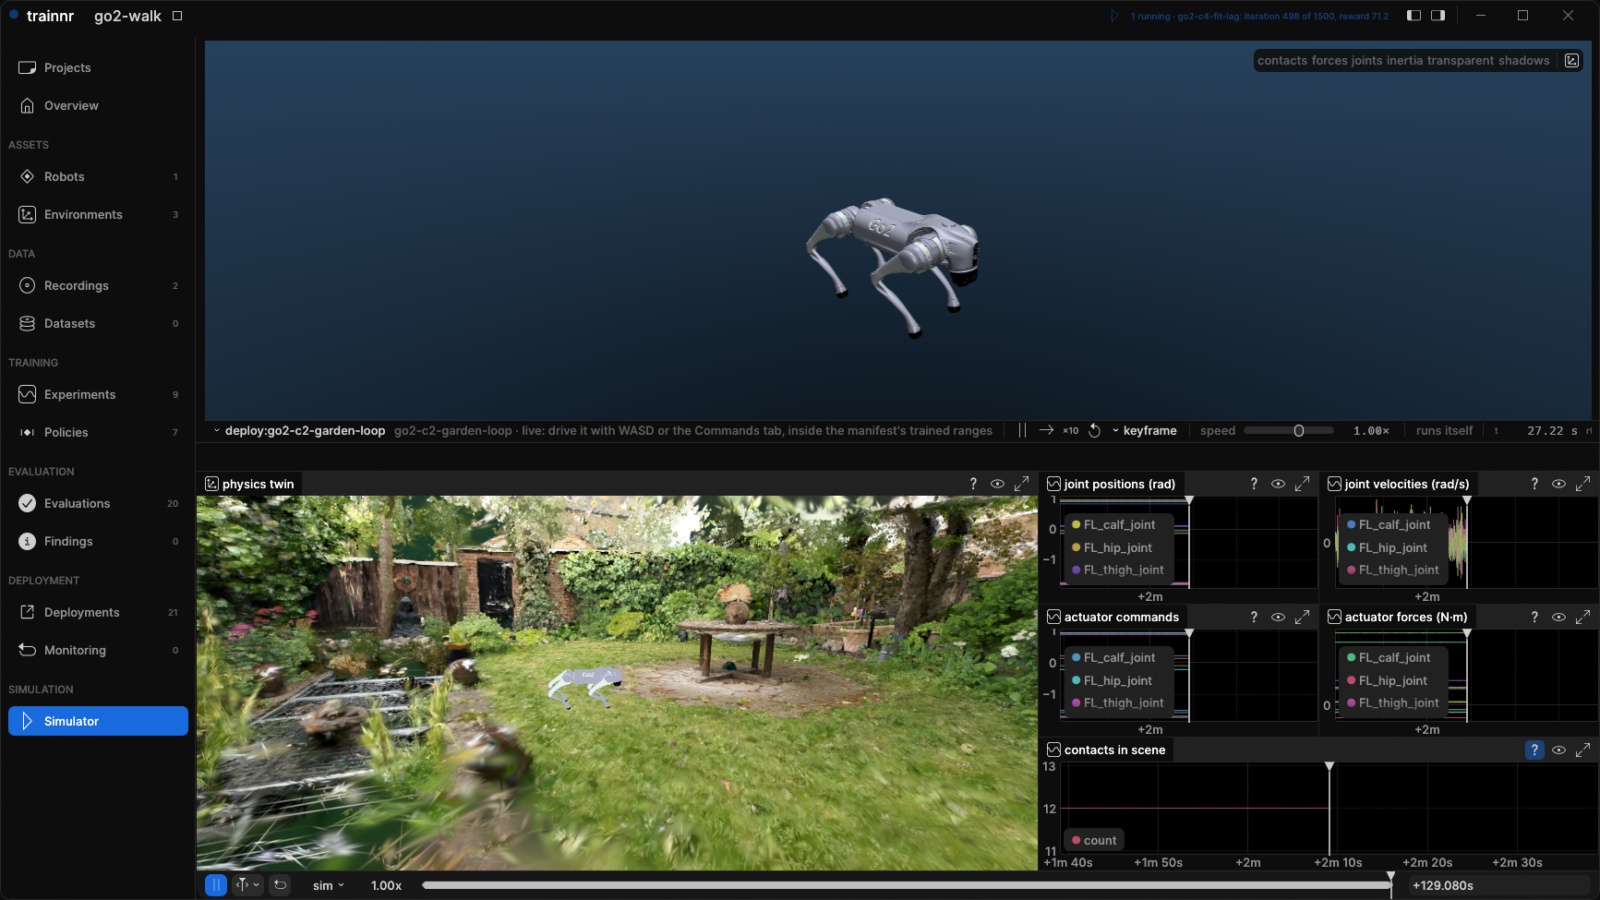
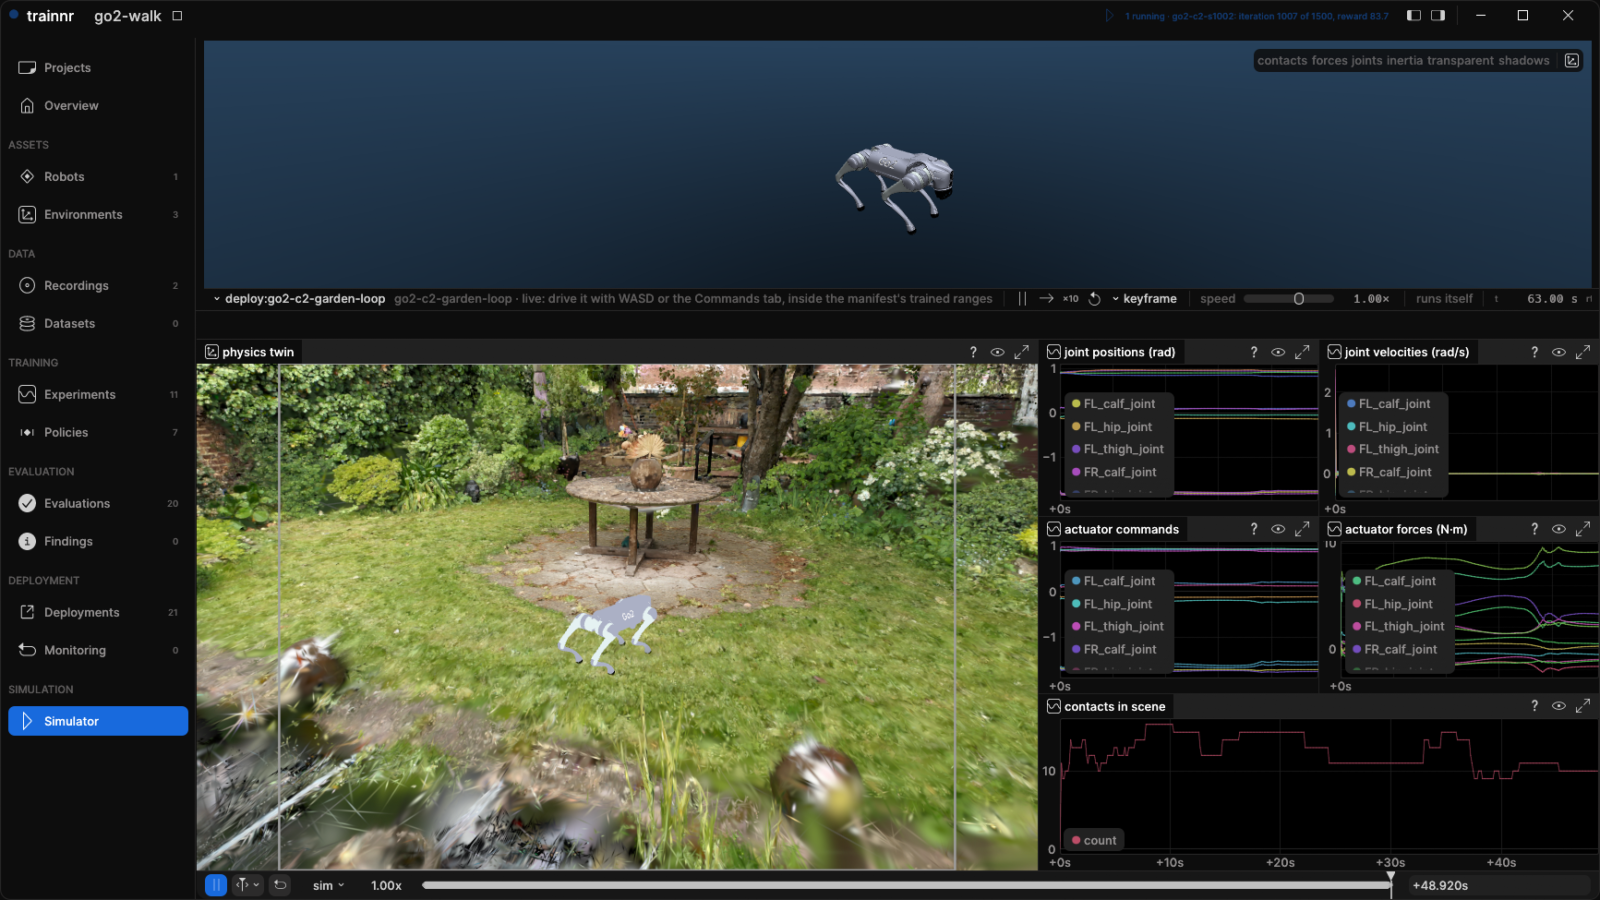
The twin follows the robot through the splat with a chase camera; a focus door brings a recording to the front; twins no longer stack; the presenter waits 120 s and says what a timeout means
Rerun takes over the pose of a tracked camera (a tracked plain entity put
the eye inside the robot's base), so the twin logs a chase camera over
the base and the eye tracks it. Command::Focus / focus_studio_recording
activates an app by the id its tool used. The Simulate handler closes
the previous twin's app before a new viewport, with TWIN_APP_PREFIX
named once per side. FLUSH_S 10 -> 120 s; a real timeout is worded.
Seen on screen: the Go2 crossing the lawn, the twin's clock live.

Claude-Session: https://claude.ai/code/session_01MNvYwm2XvRvea4wm9UZrTN

diff --git a/tools/studio-render-stream.py b/tools/studio-render-stream.py
@@ -250,9 +250,9 @@ RTF_WINDOW_S = 1.0  # the real-time factor the status reports, over this window
 # The last slice of each physics tick is spun, not slept, for accuracy.
 PACE_SPIN_S = 0.0015
 SPEED_MIN, SPEED_MAX = 0.01, 100.0  # simulate's Speed slider, roughly
-# Where the twin's eye starts, from the robot's base, under a captured
-# scene: behind and above, close enough that the robot is the picture.
-TWIN_EYE_OFFSET_M = np.array([2.5, -2.5, 1.4])
+# The twin's application id before the scene's name; the shell closes the
+# previous twin under it before a new viewport starts (viewport.rs mirrors it).
+TWIN_APP_PREFIX = "robotiq-sim-"
 
 
 class PhysicsNarrator:
@@ -267,14 +267,16 @@ class PhysicsNarrator:
         import rerun as rr  # noqa: PLC0415 - viz extra
         import rerun.blueprint as rrb  # noqa: PLC0415
         from rq_pipeline.viz import (  # noqa: PLC0415
+            CHASE_PATH,
             VISUAL_ONLY_SKIP_GROUPS,
             RigMirror,
+            chase_camera,
             leave_cleanly_on_term,
             scene_ground,
         )
 
         self.rr = rr
-        rr.init(f"robotiq-sim-{task_name}", spawn=False)
+        rr.init(f"{TWIN_APP_PREFIX}{task_name}", spawn=False)
         rr.connect_grpc()  # default 127.0.0.1:9876 — the Studio itself
         leave_cleanly_on_term(rr)
         # A staged deployment's captured scene: the splat and its proxy go
@@ -334,53 +336,39 @@ class PhysicsNarrator:
             if (model.actuator(a).name or "").startswith(self._narrated)
         ]
         self._scene_shown = scene_dir is not None
+        # under a scene the eye tracks a chase camera over the robot's base
+        self._chase_body = self._free_body(model) if self._scene_shown else None
+        if self._chase_body is not None:
+            rr.log(CHASE_PATH, chase_camera(rr), static=True)
         rr.send_blueprint(self._blueprint(rrb, model))
 
-    def _tracked(self, model: "mujoco.MjModel") -> "tuple[str, np.ndarray] | None":
-        """The robot's base as the twin logs it: the entity of the first
-        mesh on the free joint's body, and where that body starts. None
-        for a scene with no free body or no mesh on it."""
-        from rq_pipeline.viz import RIG_PATH  # noqa: PLC0415
-
+    @staticmethod
+    def _free_body(model: "mujoco.MjModel") -> "int | None":
+        """The robot's base: the free joint's body; None without one."""
         free = [
             j
             for j in range(model.njnt)
             if model.jnt_type[j] == mujoco.mjtJoint.mjJNT_FREE
         ]
-        if not free:
-            return None
-        body = int(model.jnt_bodyid[free[0]])
-        for g, name, *_ in self.mirror.meshes:
-            if int(model.geom_bodyid[g]) == body:
-                data = mujoco.MjData(model)
-                if model.nkey:  # a deployment starts from its keyframe, not qpos0
-                    mujoco.mj_resetDataKeyframe(model, data, 0)
-                mujoco.mj_forward(model, data)
-                return f"{RIG_PATH}/{name}", data.xpos[body].copy()
-        return None
+        return int(model.jnt_bodyid[free[0]]) if free else None
 
     def _twin_view(self, rrb: "object", model: "mujoco.MjModel") -> "object":
         """The 3D twin. Under a captured scene the view's bounds are the
         scene's (17 m of garden), which frames a 0.4 m robot as a speck: the
-        eye then orbits the robot's base and follows it, and the collision
-        proxy is left out of the view's contents (Rerun's `overrides` are
-        visualizers; a visibility override did not take, 2026-09-26) — the
-        entity is in the recording, one query edit away, never a blue skin
-        over the splat by default."""
-        from rq_pipeline.viz import SCENE_GROUND_PATH  # noqa: PLC0415
+        eye then tracks the chase camera the twin logs over the robot
+        (`viz.chase_pose`; a tracked plain entity put the eye inside the
+        base), and the collision proxy is left out of the view's contents
+        (Rerun's `overrides` are visualizers; a visibility override did not
+        take, 2026-09-26) — the entity is in the recording, one query edit
+        away, never a blue skin over the splat by default."""
+        from rq_pipeline.viz import CHASE_PATH, SCENE_GROUND_PATH  # noqa: PLC0415
 
+        del model
         if not self._scene_shown:
             return rrb.Spatial3DView(origin="world", name="physics twin")
-        tracked = self._tracked(model)
         eye = None
-        if tracked is not None:
-            entity, base = tracked
-            eye = rrb.EyeControls3D(
-                kind=rrb.Eye3DKind.Orbital,
-                tracking_entity=entity,
-                look_target=base,
-                position=base + TWIN_EYE_OFFSET_M,
-            )
+        if self._chase_body is not None:
+            eye = rrb.EyeControls3D(tracking_entity=CHASE_PATH)
         return rrb.Spatial3DView(
             origin="world",
             name="physics twin",
@@ -432,6 +420,11 @@ class PhysicsNarrator:
         rr = self.rr
         rr.set_time(SIM_TIMELINE, duration=sim_time)
         self.mirror.log(data)
+        if self._chase_body is not None:
+            from rq_pipeline.viz import CHASE_PATH, chase_pose  # noqa: PLC0415
+
+            position, matrix = chase_pose(data.xpos[self._chase_body])
+            rr.log(CHASE_PATH, rr.Transform3D(translation=position, mat3x3=matrix))
         now_series = sim_time - self._last_series >= 1.0 / NARRATE_HZ
         if not now_series:
             if data.ncon:

diff --git a/crates/studio-shell/src/main.rs b/crates/studio-shell/src/main.rs
@@ -433,6 +433,19 @@ impl StudioShell {
 
     /// No scene: the viewport idle and the page back to its rails — the
     /// one way a scene ends, from the button and from the door alike.
+    /// Close the previous viewport twin's recordings before a new one
+    /// streams under the same application id: restarted twice, the viewer
+    /// held two twins of one scene and showed the older (2026-09-26).
+    fn close_twin(&self, scene: &str) {
+        use re_viewer::external::re_log_types::ApplicationId;
+        use re_viewer::external::re_viewer_context::{SystemCommand, SystemCommandSender as _};
+        if let Ok(app) = ApplicationId::try_new(format!("{}{scene}", viewport::TWIN_APP_PREFIX)) {
+            self.rerun_app
+                .command_sender
+                .send_system(SystemCommand::CloseApp(app));
+        }
+    }
+
     fn stop_scene(&mut self) {
         self.viewport = ViewportFeed::idle();
         self.viewport_full = false;
@@ -619,6 +632,20 @@ impl StudioShell {
                 self.shell.show(&artifact);
                 Ok(())
             }
+            Command::Focus { recording } => {
+                use re_viewer::external::re_log_types::ApplicationId;
+                use re_viewer::external::re_viewer_context::{
+                    SystemCommand, SystemCommandSender as _,
+                };
+                // The same migration the SDK applied to the tool's id, so the
+                // raw name resolves to the entry name the viewer holds.
+                let app = ApplicationId::try_new(recording.clone())
+                    .map_err(|e| format!("recording {recording:?}: {e}"))?;
+                self.rerun_app
+                    .command_sender
+                    .send_system(SystemCommand::ActivateApp(app));
+                Ok(())
+            }
             Command::Compare { a, b } => {
                 for stamp in [&a, &b] {
                     if self.shell.model.artifact(stamp).is_none() {
@@ -769,6 +796,7 @@ impl StudioShell {
                                 viewport::DEPLOY_PREFIX
                             ));
                         }
+                        self.close_twin(&name);
                         self.viewport =
                             ViewportFeed::spawn(ui.ctx(), &name, &self.shell.model.project_root);
                         self.shell.section = Section::Live;

diff --git a/pipeline/rq_pipeline/project/present.py b/pipeline/rq_pipeline/project/present.py
@@ -64,7 +64,12 @@ if TYPE_CHECKING:
 
 INTENT_FILE = "present.json"
 POLL_S = 0.25
-FLUSH_S = 10.0
+# How long a show waits for the viewer to confirm everything arrived. The
+# viewer is shared with live streams (a training's curves, the viewport's
+# twin at 20 Hz), and behind them a 10 s wait ran out while the show itself
+# had landed: the Studio then said "could not show" over a picture that was
+# there (2026-09-26). The presenter is its own process, so it can wait.
+FLUSH_S = 120.0
 # The channel components drawn per recording: all of them up to this many,
 # so a 14-joint arm plots as fourteen lines and not one unreadable braid.
 MAX_TRACES = 16
@@ -123,7 +128,7 @@ def present(
         shown = presenter(project, artifact, recording)
         shown["viewer_files"] = [str(path) for path in replayed]
         recording.send_blueprint(rrb.Blueprint(shown["layout"]))
-        recording.flush(timeout_sec=FLUSH_S)
+        _flush(recording, stamp)
     finally:
         recording.disconnect()
     return {
@@ -169,7 +174,7 @@ def compare(
         recording.send_blueprint(
             rrb.Blueprint(rrb.Horizontal(*(s["layout"] for s in shown)))
         )
-        recording.flush(timeout_sec=FLUSH_S)
+        _flush(recording, f"{a} vs {b}")
     finally:
         recording.disconnect()
     return {
@@ -1130,6 +1135,20 @@ def _gap_line(g: Any) -> str:
         f"beyond {g.tolerance_m * 100:.0f} cm of any collider · "
         f"{g.hidden_fraction * 100:.1f} % of the proxy unseen"
     )
+
+
+def _flush(recording: Any, what: str) -> None:
+    """Wait for the viewer to take the whole show; past `FLUSH_S` the
+    refusal says what happened - the viewer is busy, what arrived is
+    shown, the rest may be missing - not a bare SDK line."""
+    try:
+        recording.flush(timeout_sec=FLUSH_S)
+    except Exception as why:
+        raise RuntimeError(
+            f"the viewer did not confirm the whole of {what} within {FLUSH_S:g} s "
+            f"(live streams share it; what arrived is shown, the rest may be "
+            f"missing): {why}"
+        ) from why
 
 
 def _obj_mesh(path: Path) -> tuple[Any, Any] | None:

diff --git a/pipeline/rq_pipeline/mcp_server.py b/pipeline/rq_pipeline/mcp_server.py
@@ -1588,6 +1588,27 @@ def show_in_studio(artifact: str) -> dict[str, Any]:
     return {**answer, **wait_presented(project, artifact, since=since)}
 
 
+def focus_studio_recording(recording: str) -> dict[str, Any]:
+    """Bring a recording to the front of the Studio's viewer by the
+    application id the tool that streams it used (the Sources list's
+    name): the viewport's twin is `robotiq-sim-<scene>`, a training run
+    its stamp, a gate `rq-gate-<runtime>-<deployment>`. A human's click on
+    a card leaves that card in front, and a twin started afterwards stays
+    a row in Sources; this is how an agent turns the viewer back. Returns
+    the acknowledgement and what the viewer then reports as its live
+    recording, so a name that is not there is seen, not assumed."""
+    from rq_pipeline.project import current_project  # noqa: PLC0415
+    from rq_pipeline.project.control import SETTLE_S, command, state  # noqa: PLC0415
+
+    project = current_project()
+    answer = command(project, "focus", recording=recording)
+    if answer.get("status") != "done":
+        return answer
+    time.sleep(SETTLE_S)
+    live = state(project).get("live") or {}
+    return {**answer, "live_recording": live.get("recording")}
+
+
 def compare_in_studio(a: str, b: str) -> dict[str, Any]:
     """Two artifacts side by side in the viewer, `a` left and `b` right —
     two robots, two recordings, an experiment beside its evaluation."""
@@ -2583,6 +2604,10 @@ def build_server() -> Any:  # noqa: PLR0915
     server.tool(
         description="Two artifacts side by side in the viewer, a left and b right."
     )(compare_in_studio)
+    server.tool(
+        description="Bring a recording to the front of the viewer by the application "
+        "id its tool used (the Sources name): the viewport twin, a run, a gate."
+    )(focus_studio_recording)
     server.tool(
         description="Drive the viewer timeline: cursor (seconds or sequence), "
         "play/pause, speed, time selection, follow, step. Refused if nothing streams."

diff --git a/pipeline/rq_pipeline/viz.py b/pipeline/rq_pipeline/viz.py
@@ -436,3 +436,41 @@ def scene_ground(
             )
             faces = len(triangles)
     return {"gaussians": drawn.count, "of": splats.count, "proxy_faces": faces}
+
+
+# A chase camera over a mirrored robot: an entity the viewer's eye can
+# track (Rerun takes over a tracked CAMERA's pose; a tracked plain entity
+# puts the eye on the entity itself - the view from inside the robot's
+# base, 2026-09-26). Behind, beside and above the robot, looking at it.
+CHASE_PATH = f"{RIG_PATH}/chase"
+CHASE_OFFSET_M = (-2.2, -2.2, 1.3)  # from the robot's base, world axes
+CHASE_WIDTH, CHASE_HEIGHT, CHASE_FOCAL = 640, 480, 500.0
+
+
+def chase_pose(
+    target: Any, offset: Any = CHASE_OFFSET_M, up: Any = (0.0, 0.0, 1.0)
+) -> Any:
+    """Where a chase camera sits (`target + offset`) and its rotation as a
+    3x3 in Rerun's RDF camera frame (x right, y down, z forward), forward
+    along the line to `target`. Returns (position, matrix)."""
+    import numpy as np  # noqa: PLC0415
+
+    target = np.asarray(target, dtype=np.float64)
+    position = target + np.asarray(offset, dtype=np.float64)
+    forward = target - position
+    forward /= np.linalg.norm(forward)
+    right = np.cross(forward, np.asarray(up, dtype=np.float64))
+    right /= np.linalg.norm(right)
+    down = np.cross(forward, right)
+    return position, np.stack([right, down, forward], axis=1)
+
+
+def chase_camera(rr: Any) -> Any:
+    """The chase camera's intrinsics, logged once, static."""
+    return rr.Pinhole(
+        focal_length=CHASE_FOCAL,
+        width=CHASE_WIDTH,
+        height=CHASE_HEIGHT,
+        camera_xyz=rr.ViewCoordinates.RDF,
+        image_plane_distance=0.15,
+    )

diff --git a/crates/studio-shell/src/control.rs b/crates/studio-shell/src/control.rs
@@ -153,6 +153,15 @@ pub enum Command {
         #[serde(default)]
         width: Option<u32>,
     },
+    /// Bring a recording to the front of the viewer by its application
+    /// id as the tool that streams it named it (the Sources list's name;
+    /// Rerun migrates it to an entry name the same way on both sides).
+    /// A human's click on a card leaves that card's recording in front,
+    /// and a live twin started after it stayed a row in Sources
+    /// (2026-09-26).
+    Focus {
+        recording: String,
+    },
     Quit,
 }
 
@@ -169,6 +178,7 @@ impl Command {
                 | Command::Panels { .. }
                 | Command::Simulate { .. }
                 | Command::Simulator { .. }
+                | Command::Focus { .. }
         )
     }
 }
@@ -710,6 +720,9 @@ mod tests {
             parse_command(r#"{"verb":"quit"}"#),
             Ok(Command::Quit)
         ));
+        let focus = parse_command(r#"{"verb":"focus","recording":"robotiq-sim-x"}"#)
+            .expect("parses");
+        assert!(matches!(focus, Command::Focus { recording } if recording == "robotiq-sim-x"));
         let err = parse_command(r#"{"verb":"dance"}"#).expect_err("refused");
         assert!(err.starts_with("not a command"), "{err}");
     }

diff --git a/pipeline/tests/test_scene_ground.py b/pipeline/tests/test_scene_ground.py
@@ -111,6 +111,24 @@ class TheSceneGround(unittest.TestCase):
         self.assertEqual(drawn["gaussians"], 3)
 
 
+@unittest.skipUnless(NUMPY, "needs numpy")
+class TheChaseCamera(unittest.TestCase):
+    def test_it_sits_at_the_offset_and_looks_at_the_target(self) -> None:
+        import numpy as np  # noqa: PLC0415
+
+        from rq_pipeline.viz import CHASE_OFFSET_M, chase_pose  # noqa: PLC0415
+
+        target = np.array([1.0, -2.0, 0.4])
+        position, matrix = chase_pose(target)
+        np.testing.assert_allclose(position, target + np.array(CHASE_OFFSET_M))
+        # RDF: x right, y down, z forward - orthonormal, forward at the target
+        np.testing.assert_allclose(matrix.T @ matrix, np.eye(3), atol=1e-12)
+        forward = (target - position) / np.linalg.norm(target - position)
+        np.testing.assert_allclose(matrix[:, 2], forward, atol=1e-12)
+        self.assertLess(matrix[2, 1], 0.0)  # its "down" points down in the world
+        self.assertAlmostEqual(matrix[2, 0], 0.0)  # its "right" is level
+
+
 def _tool():
     if str(TOOLS) not in sys.path:  # the tools import their `_lab` neighbour
         sys.path.insert(0, str(TOOLS))

diff --git a/pipeline/tests/test_studio_mirrors.py b/pipeline/tests/test_studio_mirrors.py
@@ -54,6 +54,13 @@ class RenderSideCap(unittest.TestCase):
 
 
 class WireTags(unittest.TestCase):
+    def test_the_twin_app_prefix_agrees(self) -> None:
+        """The shell closes the previous twin by this prefix before a new
+        viewport starts; the tool streams under it (2026-09-26)."""
+        py = constant(RENDER_STREAM, r'^TWIN_APP_PREFIX = "([^"]+)"$')
+        rs = constant(VIEWPORT_RS, r'^pub const TWIN_APP_PREFIX: &str = "([^"]+)";$')
+        self.assertEqual(py, rs)
+
     def test_the_pan_tag_and_its_payload_agree(self) -> None:
         # The pan message (WASD/QE, 2026-09-12): the tag number and the
         # three f32 seconds on both sides of the pipe.

diff --git a/crates/studio-shell/src/viewport.rs b/crates/studio-shell/src/viewport.rs
@@ -429,6 +429,10 @@ pub const WALK_TASK: &str = "walk";
 /// `tests/test_studio_mirrors.py`). Run by the render stream, in the
 /// pipeline's venv, inside the open project.
 pub const DEPLOY_PREFIX: &str = "deploy:";
+/// The application id the viewport's physics twin streams under, before
+/// the scene's name (`tools/studio-render-stream.py` mirrors it): what the
+/// shell closes before a new viewport starts, so twins never stack.
+pub const TWIN_APP_PREFIX: &str = "robotiq-sim-";
 
 /// Whether the viewport can run a scene by this name: a preview task,
 /// the walk, or a deployment.

diff --git a/pipeline/rq_pipeline/project/control.py b/pipeline/rq_pipeline/project/control.py
@@ -67,6 +67,7 @@ VERBS = (
     "simulate",
     "simulator",
     "screenshot",
+    "focus",
     "quit",
 )
 # The rail's page names as the Studio parses them (pages.rs `Section::parse`).
